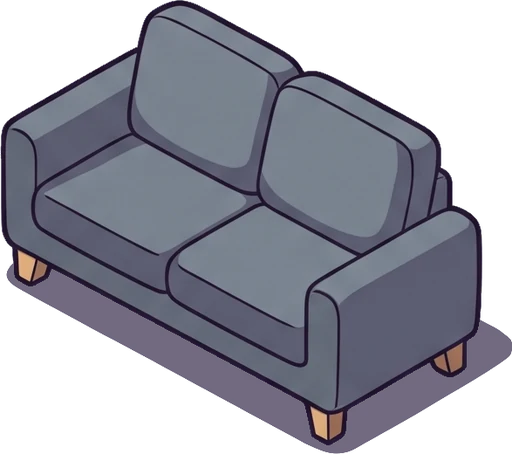
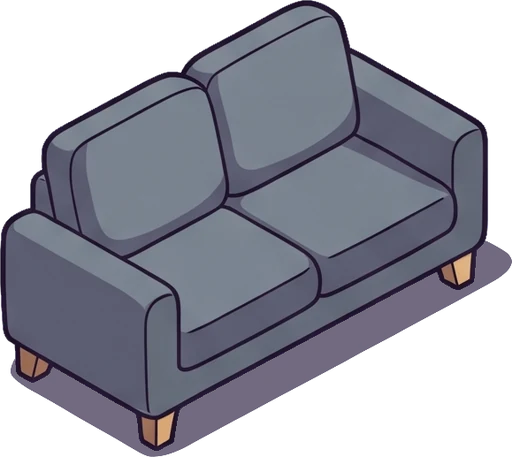
fix: furniture pictures face the right way for each wall, desk drop zone outlines the desk top, shelves hang higher

diff --git a/src/data/roomArtManifest.ts b/src/data/roomArtManifest.ts
@@ -19,7 +19,7 @@ export const ROOM_ART: Record<string, Record<string, RoomArtSprite>> = {
     'furniture-sill': { aspect: 1.7655, left: 0.0, right: 1.0, top: 0.0, bottom: 1.0, slope: -0.428 },
     'furniture-board': { aspect: 1.012, left: 0.0, right: 1.0, top: 0.0, bottom: 1.0, slope: 0.333 },
     'room-sofa': { aspect: 1.1852, left: 0.0, right: 0.929, top: 0.0, bottom: 0.9863, slope: 0.012 },
-    'room-sofa-b': { aspect: 1.1636, left: 0.0, right: 0.9613, top: 0.0, bottom: 0.9652, slope: 0.069 },
+    'room-sofa-b': { aspect: 1.1852, left: 0.071, right: 1.0, top: 0.0, bottom: 0.9863, slope: -0.016 },
     'room-chair': { aspect: 0.9269, left: 0.0, right: 0.8721, top: 0.0, bottom: 0.9545, slope: 0.343 },
     'room-chair-b': { aspect: 0.9516, left: 0.0508, right: 0.8821, top: 0.0, bottom: 0.9342, slope: -0.354 },
     'object-bed': { aspect: 1.1179, left: 0.0, right: 0.9878, top: 0.0, bottom: 0.9786, slope: -0.562 },
@@ -62,8 +62,8 @@ export const ROOM_ART: Record<string, Record<string, RoomArtSprite>> = {
     'room-sofa-b': { aspect: 1.1935, left: 0.0, right: 0.935, top: 0.0021, bottom: 0.9706, slope: -0.192 },
     'room-chair': { aspect: 0.9189, left: 0.0026, right: 0.8883, top: 0.0024, bottom: 0.9952, slope: 0.533 },
     'room-chair-b': { aspect: 0.9692, left: 0.0024, right: 0.8362, top: 0.0024, bottom: 0.9882, slope: -0.534 },
-    'object-bed': { aspect: 1.1663, left: 0.0017, right: 0.9451, top: 0.0, bottom: 0.978, slope: 0.54 },
-    'object-bed-b': { aspect: 1.1716, left: 0.0034, right: 0.9421, top: 0.002, bottom: 0.978, slope: -0.538 },
+    'object-bed': { aspect: 1.1716, left: 0.0034, right: 0.9421, top: 0.002, bottom: 0.978, slope: -0.538 },
+    'object-bed-b': { aspect: 1.1663, left: 0.0017, right: 0.9451, top: 0.0, bottom: 0.978, slope: 0.54 },
     'object-wardrobe': { aspect: 0.7373, left: 0.0022, right: 0.7495, top: 0.0016, bottom: 0.9889, slope: 0.277 },
     'object-wardrobe-b': { aspect: 0.6097, left: 0.0053, right: 0.9206, top: 0.0016, bottom: 0.9903, slope: -0.276 },
     'object-desk': { aspect: 1.113, left: 0.0019, right: 0.9658, top: 0.0021, bottom: 0.9831, slope: -0.296 },
@@ -98,14 +98,14 @@ export const ROOM_ART: Record<string, Record<string, RoomArtSprite>> = {
     'furniture-shelf-low': { aspect: 1.4504, left: 0.0, right: 1.0, top: 0.0, bottom: 1.0, slope: -0.248 },
     'furniture-sill': { aspect: 1.6057, left: 0.0, right: 1.0, top: 0.0, bottom: 1.0, slope: -0.427 },
     'furniture-board': { aspect: 0.9078, left: 0.0, right: 1.0, top: 0.0, bottom: 1.0, slope: -0.485 },
-    'room-sofa': { aspect: 1.0802, left: 0.0018, right: 0.9982, top: 0.002, bottom: 0.9861, slope: -0.166 },
-    'room-sofa-b': { aspect: 1.1558, left: 0.0017, right: 0.9914, top: 0.002, bottom: 0.994, slope: 0.201 },
+    'room-sofa': { aspect: 1.1558, left: 0.0017, right: 0.9914, top: 0.002, bottom: 0.994, slope: 0.201 },
+    'room-sofa-b': { aspect: 1.0802, left: 0.0018, right: 0.9982, top: 0.002, bottom: 0.9861, slope: -0.166 },
     'room-chair': { aspect: 0.8645, left: 0.0027, right: 0.9351, top: 0.0023, bottom: 0.979, slope: 0.526 },
     'room-chair-b': { aspect: 0.9165, left: 0.0025, right: 0.8785, top: 0.0023, bottom: 0.9722, slope: -0.535 },
     'object-bed': { aspect: 1.1716, left: 0.0017, right: 0.9899, top: 0.002, bottom: 0.9921, slope: -0.514 },
-    'object-bed-b': { aspect: 1.1429, left: 0.0017, right: 0.95, top: 0.002, bottom: 0.9961, slope: -0.615 },
-    'object-wardrobe': { aspect: 0.6472, left: 0.0025, right: 0.9899, top: 0.0016, bottom: 0.9984, slope: -0.204 },
-    'object-wardrobe-b': { aspect: 0.6899, left: 0.0024, right: 0.8424, top: 0.0016, bottom: 0.9984, slope: 0.295 },
+    'object-bed-b': { aspect: 1.1716, left: 0.0101, right: 0.9983, top: 0.002, bottom: 0.9921, slope: 0.511 },
+    'object-wardrobe': { aspect: 0.6899, left: 0.0024, right: 0.8424, top: 0.0016, bottom: 0.9984, slope: 0.295 },
+    'object-wardrobe-b': { aspect: 0.6472, left: 0.0025, right: 0.9899, top: 0.0016, bottom: 0.9984, slope: -0.204 },
     'object-desk': { aspect: 1.0987, left: 0.0019, right: 0.9981, top: 0.0021, bottom: 0.9875, slope: -0.253 },
     'object-desk-b': { aspect: 1.0987, left: 0.0019, right: 0.9981, top: 0.0021, bottom: 0.9875, slope: 0.249 },
     'room-plant': { aspect: 0.9781, left: 0.002, right: 0.9043, top: 0.002, bottom: 0.9343, slope: 0.172 },
@@ -138,14 +138,14 @@ export const ROOM_ART: Record<string, Record<string, RoomArtSprite>> = {
     'furniture-shelf-low': { aspect: 1.5284, left: 0.0, right: 1.0, top: 0.0, bottom: 1.0, slope: -0.507 },
     'furniture-sill': { aspect: 1.5422, left: 0.0, right: 1.0, top: 0.0, bottom: 1.0, slope: -0.499 },
     'furniture-board': { aspect: 0.8058, left: 0.0, right: 1.0, top: 0.0, bottom: 1.0, slope: -0.531 },
-    'room-sofa': { aspect: 1.1204, left: 0.0017, right: 0.9516, top: 0.0019, bottom: 0.9865, slope: -0.168 },
-    'room-sofa-b': { aspect: 1.1278, left: 0.0, right: 0.9404, top: 0.0019, bottom: 0.9808, slope: 0.159 },
-    'room-chair': { aspect: 0.8782, left: 0.0024, right: 0.8804, top: 0.0021, bottom: 0.9643, slope: -0.473 },
-    'room-chair-b': { aspect: 0.8819, left: 0.1196, right: 0.9976, top: 0.0021, bottom: 0.962, slope: 0.465 },
+    'room-sofa': { aspect: 1.1278, left: 0.0, right: 0.9404, top: 0.0019, bottom: 0.9808, slope: 0.159 },
+    'room-sofa-b': { aspect: 1.1204, left: 0.0017, right: 0.9516, top: 0.0019, bottom: 0.9865, slope: -0.168 },
+    'room-chair': { aspect: 0.8819, left: 0.1196, right: 0.9976, top: 0.0021, bottom: 0.962, slope: 0.465 },
+    'room-chair-b': { aspect: 0.8782, left: 0.0024, right: 0.8804, top: 0.0021, bottom: 0.9643, slope: -0.473 },
     'object-bed': { aspect: 1.1253, left: 0.0086, right: 0.9656, top: 0.0019, bottom: 0.9864, slope: -0.549 },
     'object-bed-b': { aspect: 1.1228, left: 0.0345, right: 0.9931, top: 0.0019, bottom: 0.9845, slope: 0.548 },
-    'object-wardrobe': { aspect: 0.7765, left: 0.0022, right: 0.7446, top: 0.0017, bottom: 0.9983, slope: -0.315 },
-    'object-wardrobe-b': { aspect: 0.7765, left: 0.2576, right: 0.9978, top: 0.0017, bottom: 0.9983, slope: 0.312 },
+    'object-wardrobe': { aspect: 0.7765, left: 0.2576, right: 0.9978, top: 0.0017, bottom: 0.9983, slope: 0.312 },
+    'object-wardrobe-b': { aspect: 0.7765, left: 0.0022, right: 0.7446, top: 0.0017, bottom: 0.9983, slope: -0.315 },
     'object-desk': { aspect: 1.1302, left: 0.0019, right: 0.8885, top: 0.0021, bottom: 0.9979, slope: -0.288 },
     'object-desk-b': { aspect: 1.0964, left: 0.0019, right: 0.9112, top: 0.0021, bottom: 0.9979, slope: 0.315 },
     'room-plant': { aspect: 0.911, left: 0.0023, right: 0.9977, top: 0.0021, bottom: 0.9834, slope: 0.187 },
@@ -180,10 +180,10 @@ export const ROOM_ART: Record<string, Record<string, RoomArtSprite>> = {
     'furniture-board': { aspect: 0.9228, left: 0.0, right: 1.0, top: 0.0, bottom: 1.0, slope: -0.373 },
     'room-sofa': { aspect: 1.2249, left: 0.0017, right: 0.9201, top: 0.002, bottom: 0.9919, slope: 0.072 },
     'room-sofa-b': { aspect: 1.1963, left: 0.049, right: 0.9335, top: 0.0021, bottom: 0.9518, slope: -0.151 },
-    'room-chair': { aspect: 0.979, left: 0.0019, right: 0.8418, top: 0.0018, bottom: 0.9779, slope: -0.399 },
+    'room-chair': { aspect: 1.0284, left: 0.2005, right: 0.9975, top: 0.0, bottom: 0.982, slope: 0.477 },
     'room-chair-b': { aspect: 1.0284, left: 0.0025, right: 0.7995, top: 0.0, bottom: 0.982, slope: -0.484 },
-    'object-bed': { aspect: 1.1743, left: 0.0, right: 0.9671, top: 0.002, bottom: 0.9919, slope: 0.527 },
-    'object-bed-b': { aspect: 1.177, left: 0.0017, right: 0.9637, top: 0.002, bottom: 0.998, slope: -0.532 },
+    'object-bed': { aspect: 1.177, left: 0.0017, right: 0.9637, top: 0.002, bottom: 0.998, slope: -0.532 },
+    'object-bed-b': { aspect: 1.1743, left: 0.0, right: 0.9671, top: 0.002, bottom: 0.9919, slope: 0.527 },
     'object-wardrobe': { aspect: 0.7344, left: 0.0022, right: 0.7835, top: 0.0016, bottom: 0.9934, slope: 0.288 },
     'object-wardrobe-b': { aspect: 0.6879, left: 0.0071, right: 0.8432, top: 0.0016, bottom: 0.9935, slope: -0.301 },
     'object-desk': { aspect: 1.0964, left: 0.0018, right: 0.9539, top: 0.002, bottom: 0.9757, slope: -0.277 },
@@ -218,14 +218,14 @@ export const ROOM_ART: Record<string, Record<string, RoomArtSprite>> = {
     'furniture-shelf-low': { aspect: 2.1245, left: 0.0, right: 1.0, top: 0.0, bottom: 1.0, slope: -0.297 },
     'furniture-sill': { aspect: 1.9339, left: 0.0, right: 1.0, top: 0.0, bottom: 1.0, slope: 0.369 },
     'furniture-board': { aspect: 0.8596, left: 0.0, right: 1.0, top: 0.0, bottom: 1.0, slope: -0.378 },
-    'room-sofa': { aspect: 1.1228, left: 0.0088, right: 0.9982, top: 0.002, bottom: 0.9643, slope: -0.132 },
-    'room-sofa-b': { aspect: 1.1228, left: 0.0018, right: 0.9929, top: 0.002, bottom: 0.9643, slope: 0.132 },
+    'room-sofa': { aspect: 1.1228, left: 0.0018, right: 0.9929, top: 0.002, bottom: 0.9643, slope: 0.132 },
+    'room-sofa-b': { aspect: 1.1228, left: 0.0088, right: 0.9982, top: 0.002, bottom: 0.9643, slope: -0.132 },
     'room-chair': { aspect: 0.9128, left: 0.0023, right: 0.9091, top: 0.0021, bottom: 0.9787, slope: 0.426 },
     'room-chair-b': { aspect: 0.8934, left: 0.0024, right: 0.9332, top: 0.0021, bottom: 0.9829, slope: -0.428 },
     'object-bed': { aspect: 1.177, left: 0.0, right: 0.9258, top: 0.002, bottom: 0.996, slope: -0.572 },
     'object-bed-b': { aspect: 1.2075, left: 0.0, right: 0.9243, top: 0.002, bottom: 0.998, slope: 0.552 },
-    'object-wardrobe': { aspect: 0.6525, left: 0.0, right: 0.9036, top: 0.0016, bottom: 0.9984, slope: -0.298 },
-    'object-wardrobe-b': { aspect: 0.6761, left: 0.0, right: 0.993, top: 0.0016, bottom: 0.9984, slope: 0.278 },
+    'object-wardrobe': { aspect: 0.6761, left: 0.0, right: 0.993, top: 0.0016, bottom: 0.9984, slope: 0.278 },
+    'object-wardrobe-b': { aspect: 0.6525, left: 0.0, right: 0.9036, top: 0.0016, bottom: 0.9984, slope: -0.298 },
     'object-desk': { aspect: 1.1689, left: 0.0017, right: 0.9346, top: 0.002, bottom: 0.998, slope: -0.261 },
     'object-desk-b': { aspect: 1.1743, left: 0.0017, right: 0.9251, top: 0.002, bottom: 0.998, slope: 0.258 },
     'room-plant': { aspect: 0.9094, left: 0.0022, right: 0.9978, top: 0.002, bottom: 0.9902, slope: -0.229 },

diff --git a/src/data/roomPlacement.ts b/src/data/roomPlacement.ts
@@ -52,6 +52,8 @@ export interface RoomSurface {
   minYAt?: (x: number, footprint?: FurnitureFootprint) => number;
   /** Desk top only: the drawn desk; whatever is let go over it lands on the top, not on the floor behind */
   catchArea?: Box;
+  /** Desk top only: the corners of the drawn top, to outline it as a drop zone */
+  outline?: ScenePoint[];
 }
 
 /** What the room looks like: where its desk is (its top is a surface for small items) and its theme's geometry. */
@@ -60,6 +62,8 @@ export interface RoomLayoutContext {
   geometry: RoomGeometry;
   /** What the theme's desk picture looks like, which puts the desk top at the right height */
   deskShape: DeskShape;
+  /** The desk has its back to the left wall (its picture for that wall shows) */
+  isDeskOnLeftWall?: boolean;
 }
 
 export const SCENE_ASPECT = 4 / 3;
@@ -153,7 +157,22 @@ export function getSurfaces(kind: RoomSlotKind, layout: RoomLayoutContext = DEFA
       yMin: layout.deskPoint.y - deskHeight,
       yMax: top.y + (layout.deskPoint.y - top.y) * DESK_CATCH_BELOW_TOP,
     };
-    return [{ id: 'desk-top', kind, xMin: top.x - halfWidth, xMax: top.x + halfWidth, yMin: top.y, yMax: top.y, catchArea }];
+    const outline = layout.deskShape.topCorners?.map((corner) => ({
+      x: top.x - deskWidth / 2 + (layout.isDeskOnLeftWall ? corner.x : 1 - corner.x) * deskWidth,
+      y: layout.deskPoint.y - deskHeight + corner.y * deskHeight,
+    }));
+    return [
+      {
+        id: 'desk-top',
+        kind,
+        xMin: top.x - halfWidth,
+        xMax: top.x + halfWidth,
+        yMin: top.y,
+        yMax: top.y,
+        catchArea,
+        ...(outline ? { outline } : {}),
+      },
+    ];
   }
   return fixedSurfacesOf(layout.geometry).filter((surface) => surface.kind === kind);
 }
@@ -429,7 +448,7 @@ export function getRoomLayout(profile: LearnerProfile): RoomLayoutContext {
   const roomOnly: RoomLayoutContext = { deskPoint: geometry.defaults.desk, geometry, deskShape };
   const wall = getFacing(room, deskKey, saved, geometry);
   const deskOptions = getPlacementOptions(deskKey, getItemWidth({ id: deskKey, slotKind: 'floor' }), roomOnly, wall);
-  return { ...roomOnly, deskPoint: settle('floor', saved, deskOptions) };
+  return { ...roomOnly, deskPoint: settle('floor', saved, deskOptions), isDeskOnLeftWall: wall === 'left' };
 }
 
 /** Every thing in the room that can be moved: placed items, the mission objects and the desk. */

diff --git a/src/components/room/RoomScene.tsx b/src/components/room/RoomScene.tsx
@@ -93,6 +93,8 @@ function spriteStyle(
   };
 }
 const ZONE_TOP_PAD_CQW = 8;
+/** Drop zones on the floor lie under everything that stands there. */
+const ZONE_Z_INDEX = 25;
 /** The floor outline follows the baseboard in steps this wide (scene %), and reaches the picture's edges. */
 const OUTLINE_STEP = 2;
 
@@ -137,14 +139,10 @@ export const RoomScene: React.FC<RoomSceneProps> = ({
   const geometry = getRoomGeometry(themeId);
   const furniture = getFurniturePieces(geometry, themeId);
   const deskShape = getDeskShape(themeId);
-  const layout = useMemo(
-    () => ({
-      deskPoint: entries.find((entry) => entry.key === `${OBJECT_KEY_PREFIX}${DESK_OBJECT_ID}`)?.point ?? geometry.defaults.desk,
-      geometry,
-      deskShape,
-    }),
-    [entries, geometry, deskShape]
-  );
+  const layout = useMemo(() => {
+    const desk = entries.find((entry) => entry.key === `${OBJECT_KEY_PREFIX}${DESK_OBJECT_ID}`);
+    return { deskPoint: desk?.point ?? geometry.defaults.desk, geometry, deskShape, isDeskOnLeftWall: desk?.isOnLeftWall };
+  }, [entries, geometry, deskShape]);
   const { drag, handlers, startKeyboardMove, getAnnouncement } = useRoomItemDrag({
     sceneRef,
     layout,
@@ -231,12 +229,14 @@ export const RoomScene: React.FC<RoomSceneProps> = ({
 
       {/* Drop zones: where the picked or dragged item can go */}
       {zoneSurfaces.map((surface) => {
-        const outline = getFloorOutline(surface);
+        const outline = surface.outline ?? getFloorOutline(surface);
         if (outline) {
           const points = outline.map((point) => `${point.x},${point.y}`).join(' ');
-          const zoneClass = 'absolute inset-0 z-[25] motion-safe:animate-pulse';
+          const zoneClass = 'absolute inset-0 motion-safe:animate-pulse';
           const zoneStyle: React.CSSProperties = {
             clipPath: `polygon(${outline.map((point) => `${point.x}% ${point.y}%`).join(', ')})`,
+            // the desk top is drawn on the desk, with what lies on it on top (same z, later in the scene)
+            zIndex: surface.kind === 'desk' ? Math.round(layout.deskPoint.y) + 1 : ZONE_Z_INDEX,
           };
           const drawing = (
             <svg className="w-full h-full" viewBox="0 0 100 100" preserveAspectRatio="none" aria-hidden="true">

diff --git a/src/data/roomArt.ts b/src/data/roomArt.ts
@@ -99,10 +99,24 @@ export interface DeskShape {
   topAboveFeet: number;
   /** How far left and right of the middle something can lie on the top, as a share of the desk's width */
   topHalfWidthShare: number;
+  /**
+   * The corners of the drawn desk top, as shares of the body's width (from its left) and height (from
+   * its top), for the desk against the left wall; against the right wall it is the mirror image. None
+   * for the first desk picture, which is seen from the front.
+   */
+  topCorners?: { x: number; y: number }[];
 }
 
 /** The first desk picture (and its default): 264 x 153, the top line 30% from the top, seen from the front. */
 export const LEGACY_DESK_SHAPE: DeskShape = { heightOverWidth: 153 / 264, topAboveFeet: 0.7, topHalfWidthShare: 9 / 28 };
+
+/** The desk top's corners (left, back, right, front), read off the desk pictures; all themes draw it alike. */
+const DESK_TOP_CORNERS = [
+  { x: 0.01, y: 0.22 },
+  { x: 0.32, y: 0.01 },
+  { x: 0.92, y: 0.37 },
+  { x: 0.59, y: 0.58 },
+];
 
 /**
  * The desk top is drawn as a slanted diamond: its middle (halfway between its left and right corners)
@@ -121,5 +135,6 @@ export function getDeskShape(themeId: ThemeId | undefined): DeskShape {
     heightOverWidth: 1 / (bodyWidth * desk.aspect),
     topAboveFeet: desk.bottom - (desk.top + DESK_TOP_FROM_BODY_TOP * bodyHeight),
     topHalfWidthShare: DESK_TOP_HALF_WIDTH_SHARE,
+    topCorners: DESK_TOP_CORNERS,
   };
 }

diff --git a/src/data/roomPlacement.test.ts b/src/data/roomPlacement.test.ts
@@ -467,6 +467,22 @@ describe('mission objects and the desk', () => {
     expect(book.point.y).toBeCloseTo(top.y);
   });
 
+  it('outlines the drop zone on the desk as the drawn desk top, turned the way the desk is turned', () => {
+    const profile = { ...baseProfile, themeId: 'starlight-rpg' } as LearnerProfile;
+    const outlineOf = (p: LearnerProfile) => getSurfaces('desk', getRoomLayout(p))[0].outline!;
+    const facingRight = outlineOf(profile);
+    const turned = turnRoomItem(profile, 'object:desk', NOW);
+    const facingLeft = outlineOf(turned);
+    const deskX = getRoomLayout(turned).deskPoint.x;
+    expect(facingRight).toHaveLength(4);
+    // the back corner of the top is right of the middle for the desk against the right wall, left of it when turned
+    expect(facingRight[1].x).toBeGreaterThan(getRoomLayout(profile).deskPoint.x);
+    expect(facingLeft[1].x).toBeLessThan(deskX);
+    const top = getDeskTopPoint(getRoomLayout(turned).deskPoint, getRoomGeometry('starlight-rpg'), getRoomLayout(turned).deskShape);
+    expect(Math.min(...facingLeft.map((c) => c.y))).toBeLessThan(top.y);
+    expect(Math.max(...facingLeft.map((c) => c.y))).toBeGreaterThan(top.y);
+  });
+
   it('snaps to the nearest surface across several kinds', () => {
     const top = getDeskTopPoint(DEFAULT_DESK_POINT);
     expect(snapToSurface(['floor', 'desk'], { x: top.x, y: top.y - 1 }).surface.kind).toBe('desk');

diff --git a/src/data/roomGeometry.ts b/src/data/roomGeometry.ts
@@ -178,6 +178,9 @@ function getWallLeft(window: Box): Box | null {
   return xMax - WALL_LEFT_X_MIN >= WALL_LEFT_MIN_SPAN ? { xMin: WALL_LEFT_X_MIN, xMax, yMin: 10, yMax: 30 } : null;
 }
 const FLOOR_MARGIN_X = 2;
+/** How far (scene %) above the baseboard at the corner the shelf planks hang */
+const SHELF_HIGH_ABOVE_CORNER = 38;
+const SHELF_LOW_ABOVE_CORNER = 22;
 const BED_X = 21;
 const WARDROBE_FROM_CORNER = 11;
 
@@ -205,11 +208,12 @@ function cornerRoom({ cornerX, window, edge: [yLeft, yCorner, yRight], sill }: C
     floorXMax: 100 - FLOOR_MARGIN_X,
     window,
     wallLeft: getWallLeft(window),
-    wallRight: { ...shelfX, yMin: 8, yMax: 20 },
+    // Above the shelves, which hang high on the wall (well over the furniture standing below them)
+    wallRight: { ...shelfX, yMin: 6, yMax: 16 },
     board: { xMin: cornerX + 26, xMax: 95, yMin: 16, yMax: 30 },
     shelves: [
-      { id: 'shelf-high', ...shelfX, y: yCorner - 28 },
-      { id: 'shelf-low', ...shelfX, y: yCorner - 13 },
+      { id: 'shelf-high', ...shelfX, y: yCorner - SHELF_HIGH_ABOVE_CORNER },
+      { id: 'shelf-low', ...shelfX, y: yCorner - SHELF_LOW_ABOVE_CORNER },
       { id: 'window-sill', ...sill },
     ],
     // The right wall is only about 40% wide: the desk takes it, the bed and the wardrobe stand along the left wall

diff --git a/src/data/roomArt.test.ts b/src/data/roomArt.test.ts
@@ -15,6 +15,15 @@ describe('the themed room pictures', () => {
     THEMES.forEach((theme) => expect(Object.keys(ROOM_ART[theme]).sort(), theme).toEqual(first));
   });
 
+  it('draws the bed and the desk the right way for each wall: against the right wall, the left one, never both alike', () => {
+    THEMES.forEach((theme) =>
+      ['object-bed', 'object-desk'].forEach((id) => {
+        expect(ROOM_ART[theme][id].slope, `${theme}/${id}`).toBeLessThan(-0.1);
+        expect(ROOM_ART[theme][`${id}-b`].slope, `${theme}/${id}-b`).toBeGreaterThan(0.1);
+      })
+    );
+  });
+
   it('has a file for every picture, with sane body bounds', () => {
     THEMES.forEach((theme) =>
       Object.entries(ROOM_ART[theme]).forEach(([id, sprite]) => {

diff --git a/scripts/art/process_room_art.py b/scripts/art/process_room_art.py
@@ -20,7 +20,7 @@ import sys
 from pathlib import Path
 
 import numpy as np
-from PIL import Image, ImageDraw
+from PIL import Image, ImageDraw, ImageOps
 from scipy import ndimage
 
 from process_room_furniture import clear_background
@@ -62,6 +62,22 @@ SLOPE_MIN_COLUMNS = 8
 # Pictures whose top edge is not the way the piece runs (a level crest on top of a slanted shelf):
 # their slope, read off the plank by eye, as the measured one would read it
 SLOPE_OVERRIDES = {'starlight-rpg/furniture-shelf-high': -0.25}
+# Big furniture drawn the wrong way: the view against the right wall (<id>) faces down-left, the one
+# against the left wall (<id>-b) down-right. Some came back swapped, some with both views the same.
+# Picture key -> (the drawn picture to use, mirrored or not). A mirrored one's baked shadow falls left.
+VIEW_SOURCES = {
+    **{f'{theme}/{item}{view}': (f'{item}{other}', False)
+       for theme, item in [
+           ('neon-pop', 'object-bed'), ('urban-night', 'object-bed'),
+           ('starlight-rpg', 'object-wardrobe'), ('focus-desk', 'object-wardrobe'), ('travel-journal', 'object-wardrobe'),
+           ('starlight-rpg', 'room-sofa'), ('focus-desk', 'room-sofa'), ('travel-journal', 'room-sofa'),
+           ('focus-desk', 'room-chair'),
+       ]
+       for view, other in [('', '-b'), ('-b', '')]},
+    'starlight-rpg/object-bed-b': ('object-bed', True),
+    'cozy-studio/room-sofa-b': ('room-sofa', True),
+    'urban-night/room-chair': ('room-chair-b', True),
+}
 OPEN_SPACE_MIN_AREA = 100
 SOLID_BODY_SIZE = 9  # furniture pieces are thick: anything thinner than this many pixels is a stray line
 SOLID_BODY_REGROW = 8  # pixels kept around the thick body, which is its outline and soft edge
@@ -184,9 +200,14 @@ def top_edge_slope(alpha: np.ndarray, body: np.ndarray) -> float:
     return float(np.polyfit(xs, tops, 1)[0])
 
 
-def process(path: Path, has_shadow: bool) -> tuple[Image.Image, tuple[float, float, float, float], float]:
+def load_source(path: Path, mirror: bool) -> Image.Image:
+    picture = Image.open(path).convert('RGB')
+    return ImageOps.mirror(picture) if mirror else picture
+
+
+def process(path: Path, has_shadow: bool, mirror: bool = False) -> tuple[Image.Image, tuple[float, float, float, float], float]:
     """The transparent picture, the body's (left, right, top, bottom) as shares of it, and its top edge's slope."""
-    rgb = remove_axis_lines(remove_stray_lines(np.asarray(Image.open(path).convert('RGB'))))
+    rgb = remove_axis_lines(remove_stray_lines(np.asarray(load_source(path, mirror))))
     if has_shadow:
         rgb, alpha, body = alpha_with_shadow(rgb, PALE_SHADOW_MAX_LUMINANCE if path.stem.removesuffix('-b') in PALE_SHADOW_IDS else SHADOW_MAX_LUMINANCE)
         drawn = int((alpha > ALPHA_VISIBLE).sum())
@@ -283,11 +304,12 @@ def main() -> None:
     missing: list[str] = []
     for key, has_shadow in jobs.items():
         theme, picture_id = key.split('/')
-        source = SOURCE / theme / f'{picture_id}.png'
+        source_id, mirror = VIEW_SOURCES.get(key, (picture_id, False))
+        source = SOURCE / theme / f'{source_id}.png'
         if not source.exists():
             missing.append(key)
             continue
-        picture, (left, right, top, bottom), slope = process(source, has_shadow)
+        picture, (left, right, top, bottom), slope = process(source, has_shadow, mirror)
         target = OUT / theme / f'{picture_id}.webp'
         target.parent.mkdir(parents=True, exist_ok=True)
         picture.save(target, 'WEBP', quality=WEBP_QUALITY, method=6)
